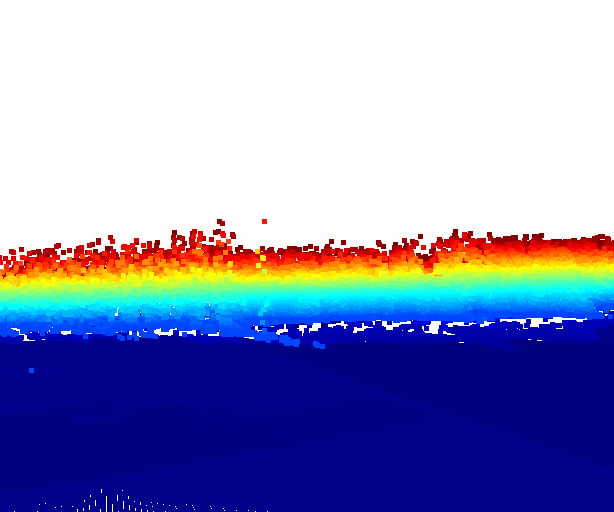
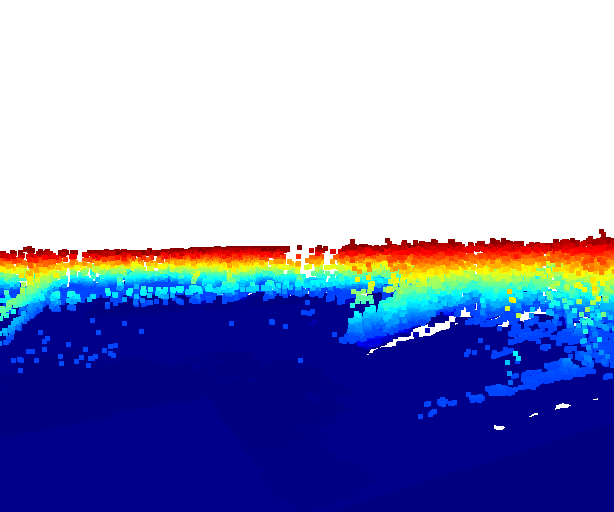
Adjust front/rear view for different directions;

diff --git a/view/Processed3dView.py b/view/Processed3dView.py
@@ -61,7 +61,7 @@ class ViewTaskAgent():
                 logging.info(f"Request view task at pos: {view_task.pos} ok")
             else:
                 success = False
-                #logging.info(f"Failed to request view task")
+                # logging.info(f"Failed to request view task")
         except Exception:
             logging.error("Request view task error", exc_info=True)
             success = False
@@ -107,8 +107,8 @@ class ViewTaskAgent():
 
 class ViewProcessor3D():
 
-    def __init__(self, service_agent, map_path, min_x = -5120, min_y = -6144,
-                 max_x = 5120, max_y = 5120, map_factor = 0.5, zoom_factor = 0.5):
+    def __init__(self, service_agent, map_path, min_x=-5120, min_y=-6144,
+                 max_x=5120, max_y=5120, map_factor=0.5, zoom_factor=0.5):
         self.service_agent = service_agent
         self.xyz_data_results = []
 
@@ -276,12 +276,14 @@ class ViewProcessor3D():
         logging.info(f"Adjust by window, after ({map_pos_x, map_pos_y, map_ort_xy})")
 
         # Adjustment based on zoom factor
-        #adjust_x = int(self.map_source_img.size[0] / self.zoom_factor / 2 - self.map_source_img.size[0] / 2)
-        #adjust_y = int(self.map_source_img.size[1] / self.zoom_factor / 2 - self.map_source_img.size[1] / 2)
+        # adjust_x = int(self.map_source_img.size[0] / self.zoom_factor / 2 - self.map_source_img.size[0] / 2)
+        # adjust_y = int(self.map_source_img.size[1] / self.zoom_factor / 2 - self.map_source_img.size[1] / 2)
 
         # Adjustment original point based on zoom factor
-        map_pos_x = int(map_pos_x / self.zoom_factor - (self.window_width / 2 / self.zoom_factor - self.window_width / 2))
-        map_pos_y = int(map_pos_y / self.zoom_factor - (self.window_height / 2 / self.zoom_factor - self.window_height / 2))
+        map_pos_x = int(
+            map_pos_x / self.zoom_factor - (self.window_width / 2 / self.zoom_factor - self.window_width / 2))
+        map_pos_y = int(
+            map_pos_y / self.zoom_factor - (self.window_height / 2 / self.zoom_factor - self.window_height / 2))
         logging.info(f"Adjust by zoom, after ({map_pos_x, map_pos_y, map_ort_xy})")
 
         moving_pos = (map_pos_x, map_pos_y, map_ort_xy)
@@ -375,14 +377,65 @@ class ViewProcessor3D():
             ctr.convert_from_pinhole_camera_parameters(camera_params)
             return False
 
+        def restore_init_view(vis):
+            ctr = vis.get_view_control()
+            camera_params = o3d.io.read_pinhole_camera_parameters("config/base_camera.json")
+            ctr.convert_from_pinhole_camera_parameters(camera_params)
+
+        def perform_custom_action(vis):
+            full_w = self.window_width
+            full_h = self.window_height
+            half_w = int(self.window_width / 2)
+            half_h = int(self.window_height / 2)
+
+            ctr = vis.get_view_control()
+            # ctr.rotate(0, -full_h, half_w, full_h)
+            # ctr.translate(-10, 0, half_w, half_h)
+            ctr.rotate(full_h, 0, 0, half_h)
+            # ctr.translate(-10, 0, half_w, half_h)
+            # ctr.rotate(-full_h, 0, 0, half_h)
+
+            # ctr.set_zoom(0.5)
+            # ctr.set_zoom(0.5)
+
+            return False
+
+        def load_north_view(vis):
+            ctr = vis.get_view_control()
+            camera_params = o3d.io.read_pinhole_camera_parameters(self.get_north_view_camera_params_path())
+            ctr.convert_from_pinhole_camera_parameters(camera_params)
+            return False
+
+        def load_south_view(vis):
+            ctr = vis.get_view_control()
+            camera_params = o3d.io.read_pinhole_camera_parameters(self.get_south_view_camera_params_path())
+            ctr.convert_from_pinhole_camera_parameters(camera_params)
+            return False
+
+        def load_west_view(vis):
+            ctr = vis.get_view_control()
+            camera_params = o3d.io.read_pinhole_camera_parameters(self.get_west_view_camera_params_path())
+            ctr.convert_from_pinhole_camera_parameters(camera_params)
+            return False
+
+        def load_east_view(vis):
+            ctr = vis.get_view_control()
+            camera_params = o3d.io.read_pinhole_camera_parameters(self.get_east_view_camera_params_path())
+            ctr.convert_from_pinhole_camera_parameters(camera_params)
+            return False
+
         key_to_callback = {}
-        key_to_callback[ord("K")] = change_background_to_black
+        key_to_callback[ord("K")] = perform_custom_action
         key_to_callback[ord("S")] = save_render_option
-        key_to_callback[ord("R")] = load_render_option
+        key_to_callback[ord("R")] = restore_init_view
         key_to_callback[ord(",")] = save_image
         key_to_callback[ord(".")] = capture_image
         key_to_callback[ord("P")] = save_view_trajectory
         key_to_callback[ord("V")] = load_view_trajectory
+        key_to_callback[ord("I")] = load_north_view
+        key_to_callback[ord("M")] = load_south_view
+        key_to_callback[ord("J")] = load_west_view
+        key_to_callback[ord("L")] = load_east_view
 
         vis = o3d.visualization.VisualizerWithKeyCallback()
         vis.create_window(width=self.window_width, height=self.window_height)
@@ -401,6 +454,18 @@ class ViewProcessor3D():
 
     def get_base_view_camera_params_path(self):
         return os.path.join(os.path.join(os.getcwd(), 'config'), "base_camera.json")
+
+    def get_north_view_camera_params_path(self):
+        return os.path.join(os.path.join(os.getcwd(), 'config'), "north_camera.json")
+
+    def get_south_view_camera_params_path(self):
+        return os.path.join(os.path.join(os.getcwd(), 'config'), "south_camera.json")
+
+    def get_west_view_camera_params_path(self):
+        return os.path.join(os.path.join(os.getcwd(), 'config'), "west_camera.json")
+
+    def get_east_view_camera_params_path(self):
+        return os.path.join(os.path.join(os.getcwd(), 'config'), "west_camera.json")
 
     def get_image_path(self, image_filename):
         return os.path.join(os.path.join(os.getcwd(), 'images'), image_filename)
@@ -431,7 +496,7 @@ class ViewProcessor3D():
             marker_img = marker_img.rotate(marker_ort_xy, expand=1)
 
         marker_img_width, marker_img_height = marker_img.size
-        #logging.info(f"maker image width: {marker_img_width}, height: {marker_img_height}")
+        # logging.info(f"maker image width: {marker_img_width}, height: {marker_img_height}")
 
         move_pos_x = int(marker_pos_x - marker_img_width / 2)
         move_pos_y = int(marker_pos_y - marker_img_height / 2)
@@ -460,47 +525,95 @@ class ViewProcessor3D():
         move_pos_x, move_pos_y, move_ort_xy = self.locate_moving_distance(target_pos)
         logging.debug(f"Locate front/rear view to move: ({move_pos_x}, {move_pos_y}) for target: {target_pos}")
 
-        x0 = int(self.window_width / 2)
-        y0 = int(self.window_height / 2)
-
-        rotate_xy = 0
-        if move_ort_xy != 0:
-            rotate_xy = int(move_ort_xy / 90 * self.window_width)
-
-        rotate_x = 800
-        rotate_y = 100
-
         current_zoom_factor = 0.2
-        current_scale_factor = (2.0 + (self.zoom_factor - current_zoom_factor))
+        current_scale_factor = 4 * current_zoom_factor
         move_pos_x = move_pos_x * current_scale_factor
         move_pos_y = move_pos_y * current_scale_factor
 
-        front_camera_params = self.get_front_view_camera_params_path()
-        self.load_camera_params(vis3d, front_camera_params)
+        x0 = int(self.window_width / 2)
+        y0 = int(self.window_height / 2)
+
+        # Convert direction to positive degree
+        if move_ort_xy < 0:
+            move_ort_xy = 360 + move_ort_xy
+
+        # dive direction to 4 cartesian
+        if (0 <= move_ort_xy <= 45) or (315 <= move_ort_xy <= 360):
+            ort_cart = 1
+        elif 45 < move_ort_xy < 135:
+            ort_cart = 2
+        elif 135 <= move_ort_xy <= 225:
+            ort_cart = 3
+        elif 225 < move_ort_xy < 315:
+            ort_cart = 4
+        # Invalid direction, so use default direction
+        else:
+            ort_cart = 1
+            move_ort_xy = 0
+
+        logging.info(f"Set orientation cartesian {ort_cart}")
+
+        if ort_cart == 1:
+            front_view_path = self.get_north_view_camera_params_path()
+            rear_view_path = self.get_south_view_camera_params_path()
+            front_move_pos_x = move_pos_x
+            front_move_pos_y = move_pos_y
+            rear_move_pos_x = -move_pos_x
+            rear_move_pos_y = -move_pos_y
+
+            if move_ort_xy == 0:
+                rotate_xy = 0
+            elif move_ort_xy >= 315:
+                rotate_xy = int((move_ort_xy - 360) / 90 * self.window_width)
+            else:
+                rotate_xy = int(move_ort_xy / 90 * self.window_width)
+        elif ort_cart == 2:
+            front_view_path = self.get_west_view_camera_params_path()
+            rear_view_path = self.get_east_view_camera_params_path()
+            front_move_pos_x = -move_pos_y
+            front_move_pos_y = move_pos_x
+            rear_move_pos_x = move_pos_y
+            rear_move_pos_y = -move_pos_x
+
+            if move_ort_xy == 90:
+                rotate_xy = 0
+            else:
+                rotate_xy = int((move_ort_xy - 90) / 90 * self.window_width)
+        elif ort_cart == 3:
+            front_view_path = self.get_south_view_camera_params_path()
+            rear_view_path = self.get_north_view_camera_params_path()
+            front_move_pos_x = -move_pos_x
+            front_move_pos_y = -move_pos_y
+            rear_move_pos_x = move_pos_x
+            rear_move_pos_y = move_pos_y
+
+            if move_ort_xy == 180:
+                rotate_xy = 0
+            else:
+                rotate_xy = int((move_ort_xy - 180) / 90 * self.window_width)
+        elif ort_cart == 4:
+            front_view_path = self.get_east_view_camera_params_path()
+            rear_view_path = self.get_west_view_camera_params_path()
+            front_move_pos_x = move_pos_y
+            front_move_pos_y = -move_pos_x
+            rear_move_pos_x = -move_pos_y
+            rear_move_pos_y = move_pos_x
+
+            if move_ort_xy == 180:
+                rotate_xy = 0
+            else:
+                rotate_xy = int((move_ort_xy - 180) / 90 * self.window_width)
+        else:
+            logging.error(f"Invalid orientation cartesian {ort_cart}")
+
         logging.debug("Loaded front camera parameters")
-
-        if target_pos_x > 0:
-            front_move_pos_x = -abs(move_pos_x)
-        else:
-            front_move_pos_x = abs(move_pos_x)
-
-        if target_pos_y > 0:
-            front_move_pos_y = -abs(move_pos_y)
-        else:
-            front_move_pos_y = abs(move_pos_y)
+        self.load_camera_params(vis3d, front_view_path)
 
         ctr3d = vis3d.get_view_control()
-        ctr3d.translate(front_move_pos_x, front_move_pos_y, xo=origin_x, yo=origin_y)
-
         if rotate_xy > 0:
-            ctr3d.rotate(-rotate_xy, 0, xo=self.window_width, yo=origin_y)
+            ctr3d.rotate(-rotate_xy, 0, xo=origin_x, yo=origin_y)
 
-        #
-        # ctr3d = vis3d.get_view_control()
-        #
-        # ctr3d.set_zoom(0.2)
-        # ctr3d.rotate(0, rotate_y, x0, y0)
-        #ctr3d.translate()
+        ctr3d.translate(-front_move_pos_x, -front_move_pos_y, xo=origin_x, yo=origin_y)
 
         vis3d.poll_events()
         vis3d.update_renderer()
@@ -510,25 +623,14 @@ class ViewProcessor3D():
         front_image = Image.open(front_img_temp_path)
 
         logging.debug("Loaded rear camera parameters")
-
-        rear_camera_parms = self.get_rear_view_camera_params_path()
-        self.load_camera_params(vis3d, rear_camera_parms)
-
-        if target_pos_x > 0:
-            rear_move_pos_x = abs(move_pos_x)
-        else:
-            rear_move_pos_x = -abs(move_pos_x)
-
-        if target_pos_y > 0:
-            rear_move_pos_y = abs(move_pos_y)
-        else:
-            rear_move_pos_y = -abs(move_pos_y)
+        self.load_camera_params(vis3d, rear_view_path)
 
         ctr3d = vis3d.get_view_control()
-        ctr3d.translate(rear_move_pos_x, rear_move_pos_y, xo=origin_x, yo=origin_y)
 
         if rotate_xy > 0:
-            ctr3d.rotate(-rotate_xy, 0, xo=self.window_width, yo=origin_y)
+            ctr3d.rotate(-rotate_xy, 0, xo=origin_x, yo=origin_y)
+
+        ctr3d.translate(-rear_move_pos_x, -rear_move_pos_y, xo=origin_x, yo=origin_y)
 
         vis3d.poll_events()
         vis3d.update_renderer()
@@ -564,10 +666,10 @@ class ViewProcessor3D():
 
                 front_img_path = os.path.join(os.path.join(os.getcwd(), 'images'), "front_image.png")
                 rear_img_path = os.path.join(os.path.join(os.getcwd(), 'images'), "rear_image.png")
-                #map_img_path = os.path.join(os.path.join(os.getcwd(), 'images'), "map_image.png")
+                # map_img_path = os.path.join(os.path.join(os.getcwd(), 'images'), "map_image.png")
 
-                #view_task.front_img = Image.open(front_img_path)
-                #view_task.rear_img = Image.open(rear_img_path)
+                # view_task.front_img = Image.open(front_img_path)
+                # view_task.rear_img = Image.open(rear_img_path)
                 # view_task.map_img = Image.open(map_img_path)
 
                 view_task.front_img, view_task.rear_img = self.generate_front_rear_view(vis, view_task.pos)
@@ -578,7 +680,7 @@ class ViewProcessor3D():
                                                                  map_img=view_task.map_img)
 
             else:
-                #vis.update_geometry(pcd_data)
+                # vis.update_geometry(pcd_data)
                 # Check whether user stopped application window
                 self.running_tasks = vis.poll_events()
                 vis.update_renderer()
